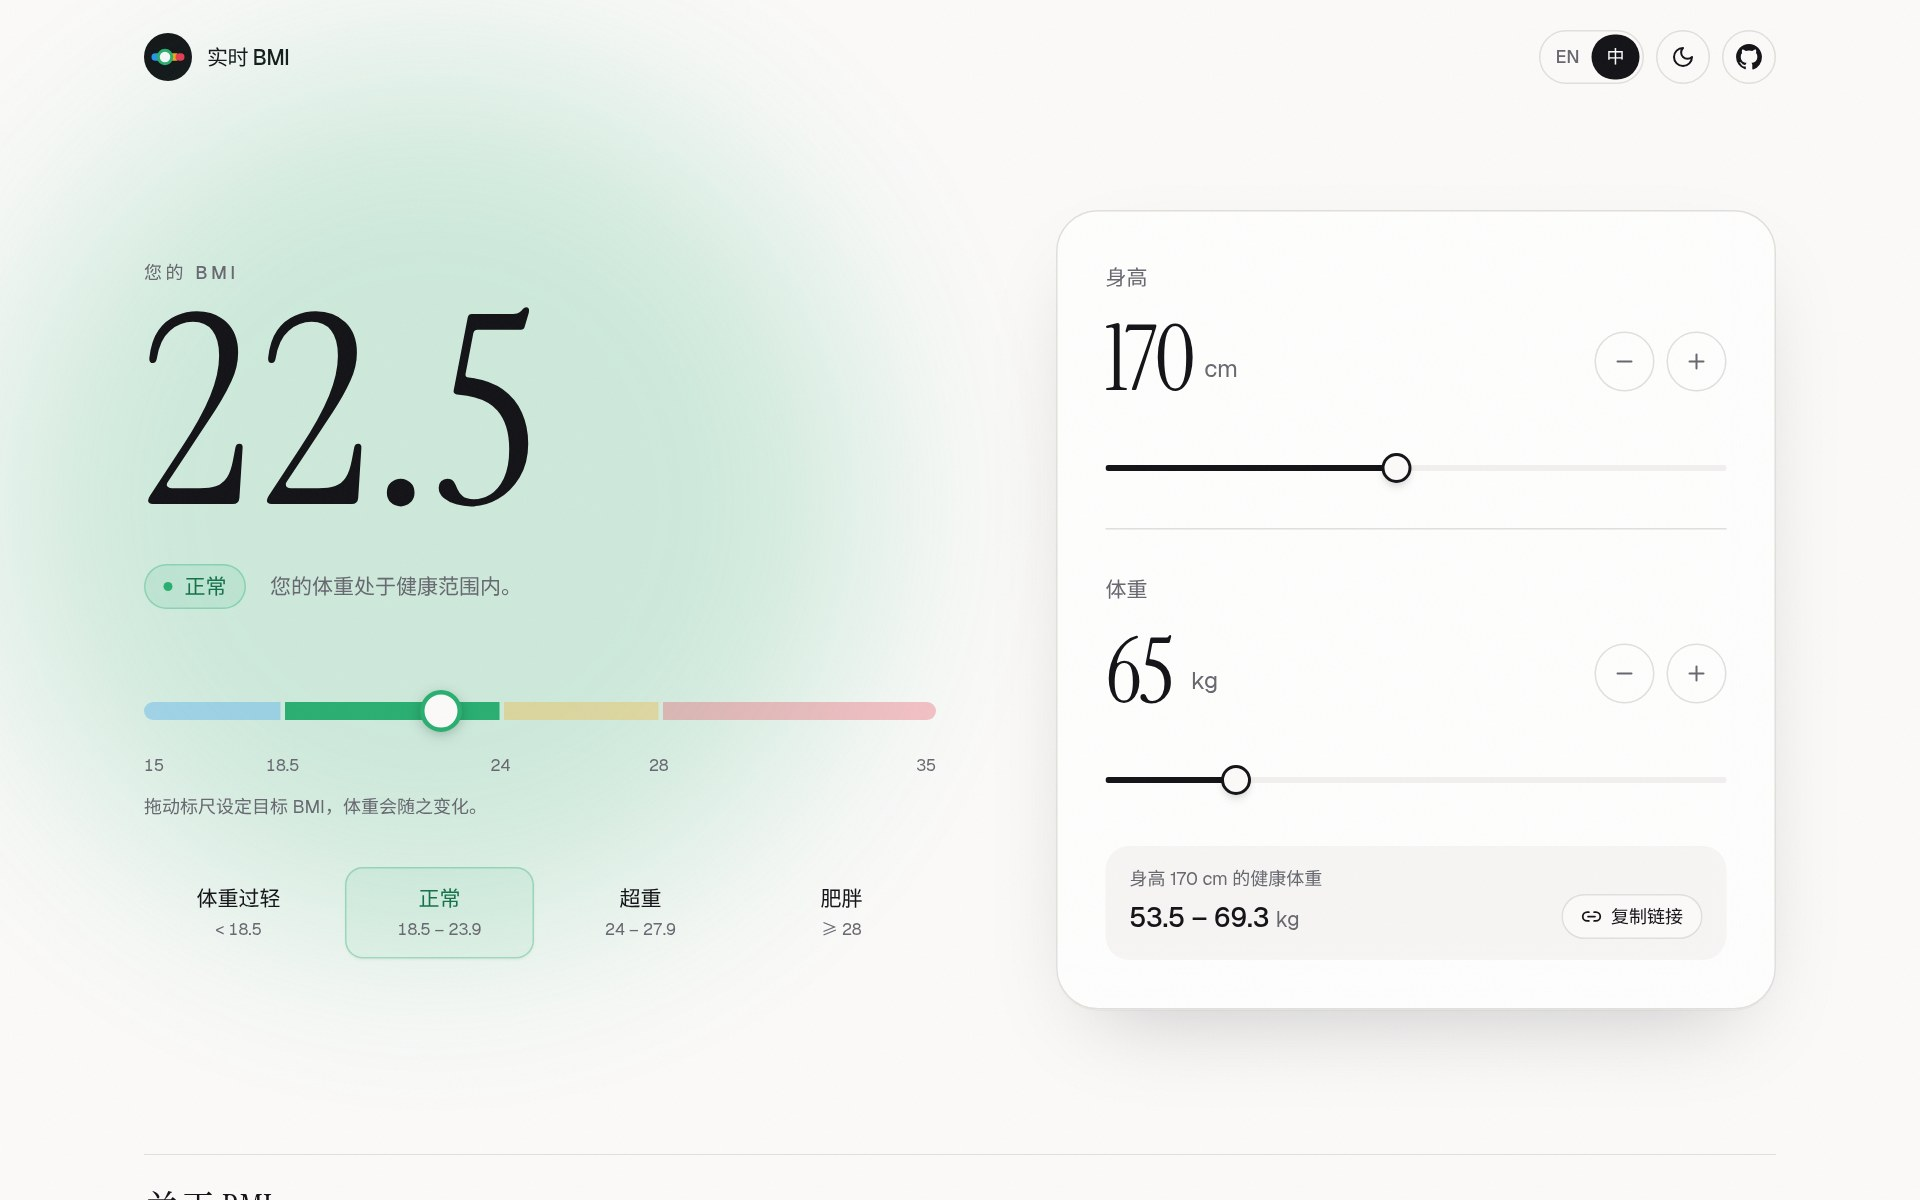
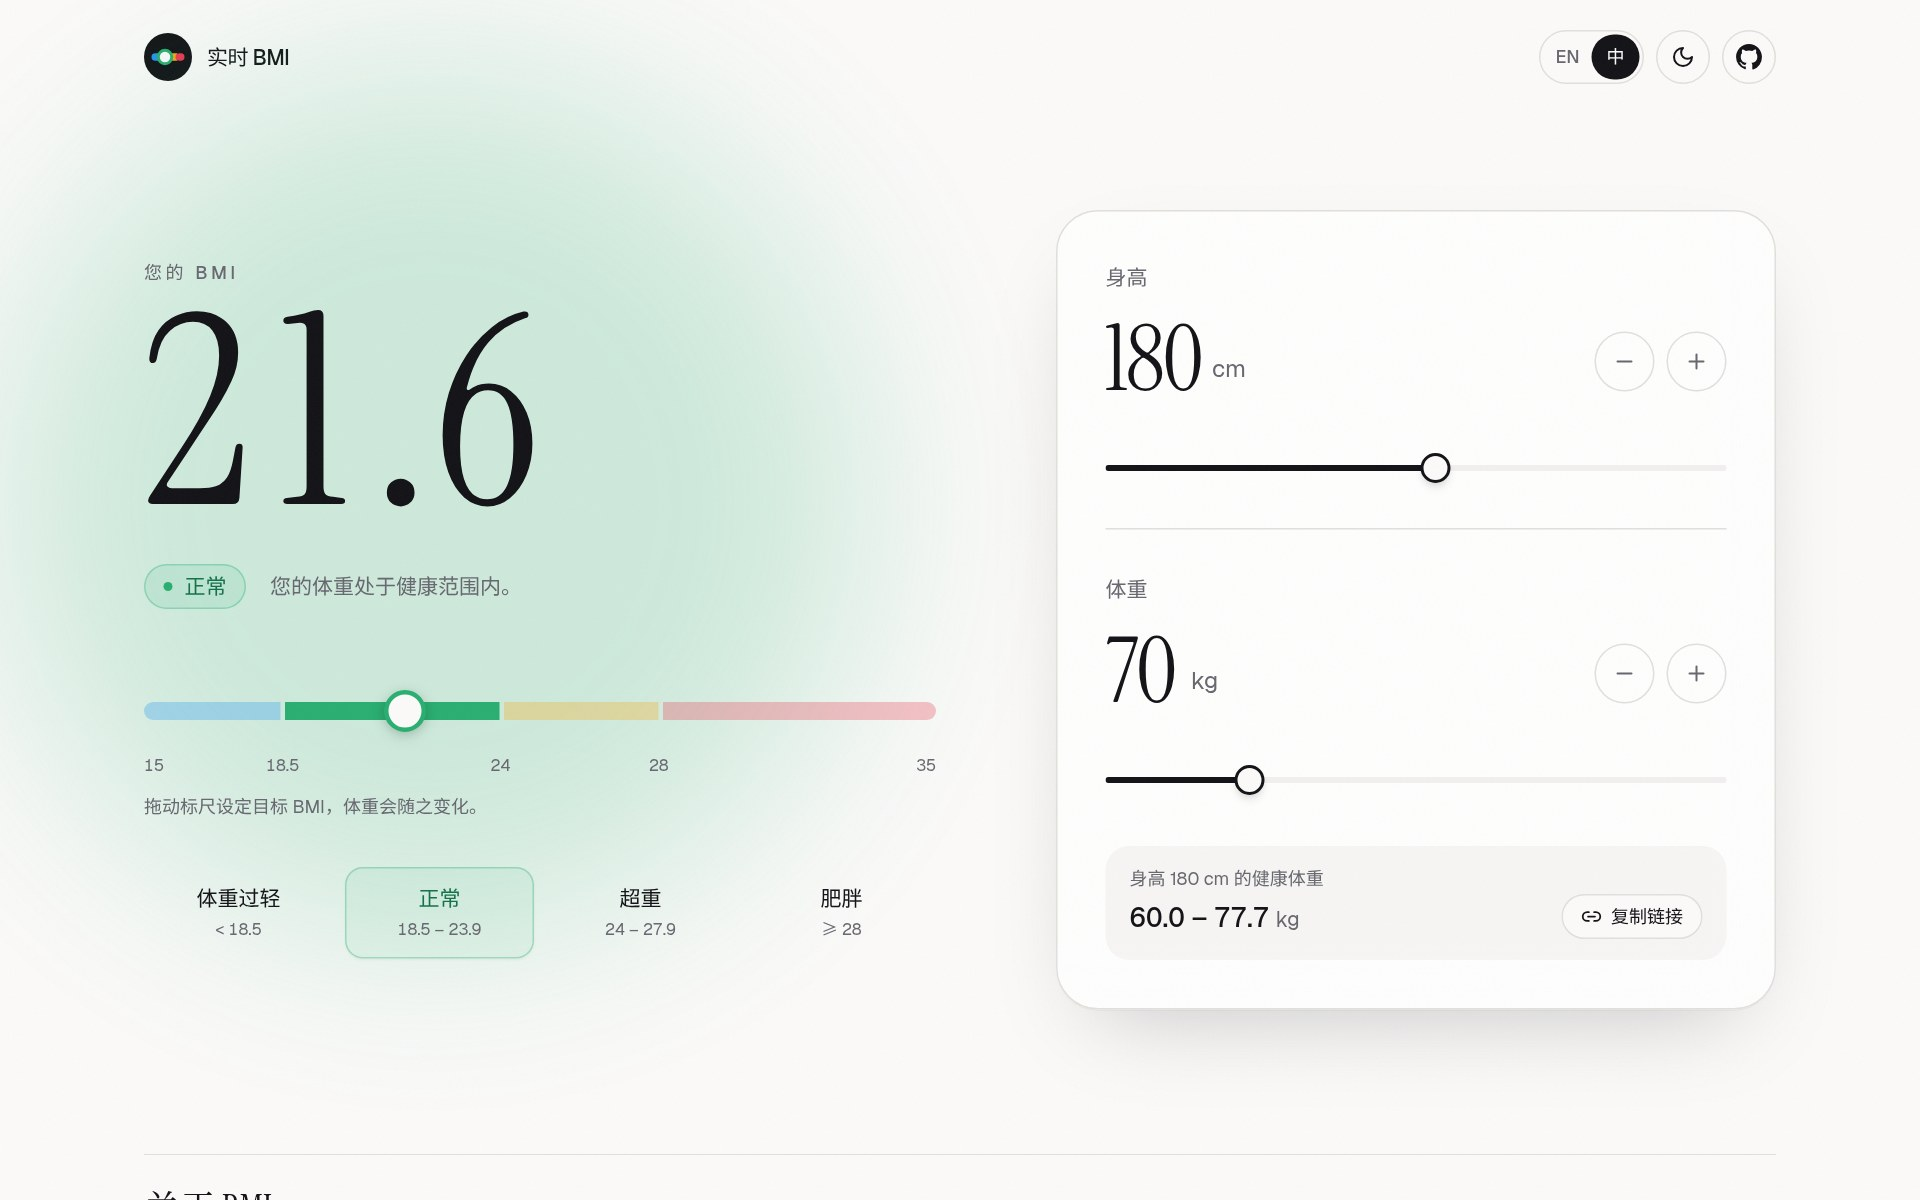
Default to 180 cm / 70 kg; refresh README screenshots

diff --git a/components/bmi-calculator.tsx b/components/bmi-calculator.tsx
@@ -105,8 +105,8 @@ function BmiNumber({ value }: { value: number }) {
 }
 
 export function BMICalculator() {
-  const [height, setHeight] = useState<number>(170)
-  const [weight, setWeight] = useState<number>(65)
+  const [height, setHeight] = useState<number>(180)
+  const [weight, setWeight] = useState<number>(70)
   const [copied, setCopied] = useState(false)
   const { translations } = useLanguage()
 
